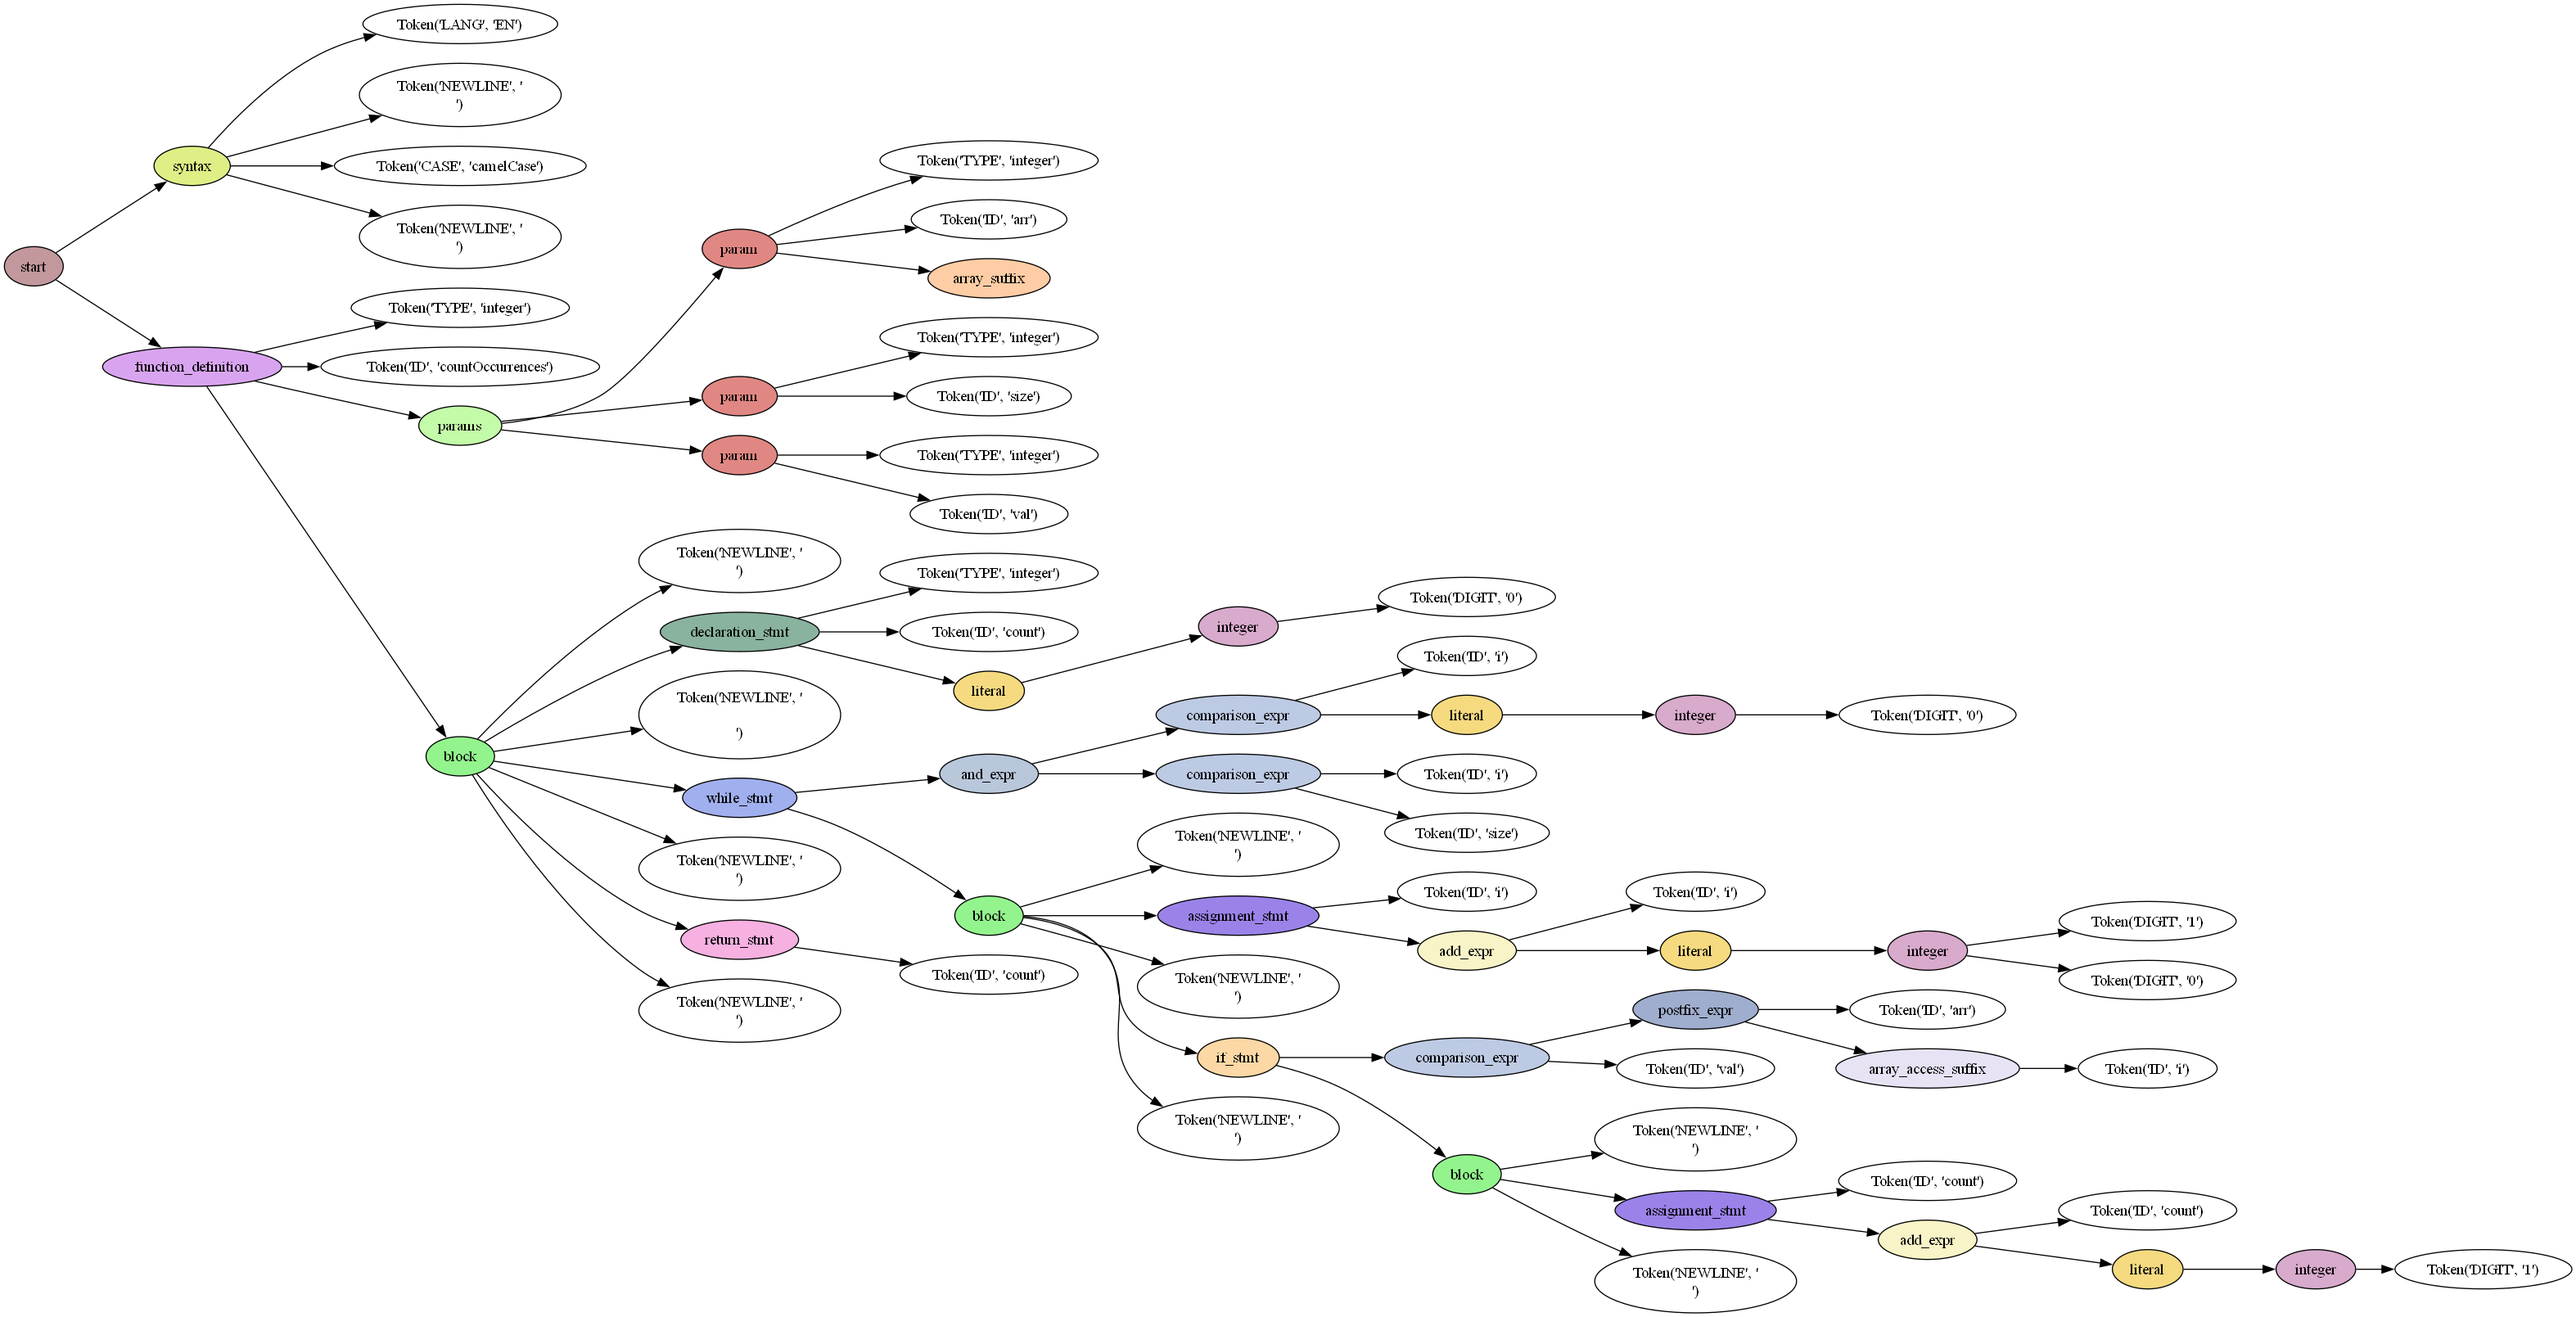
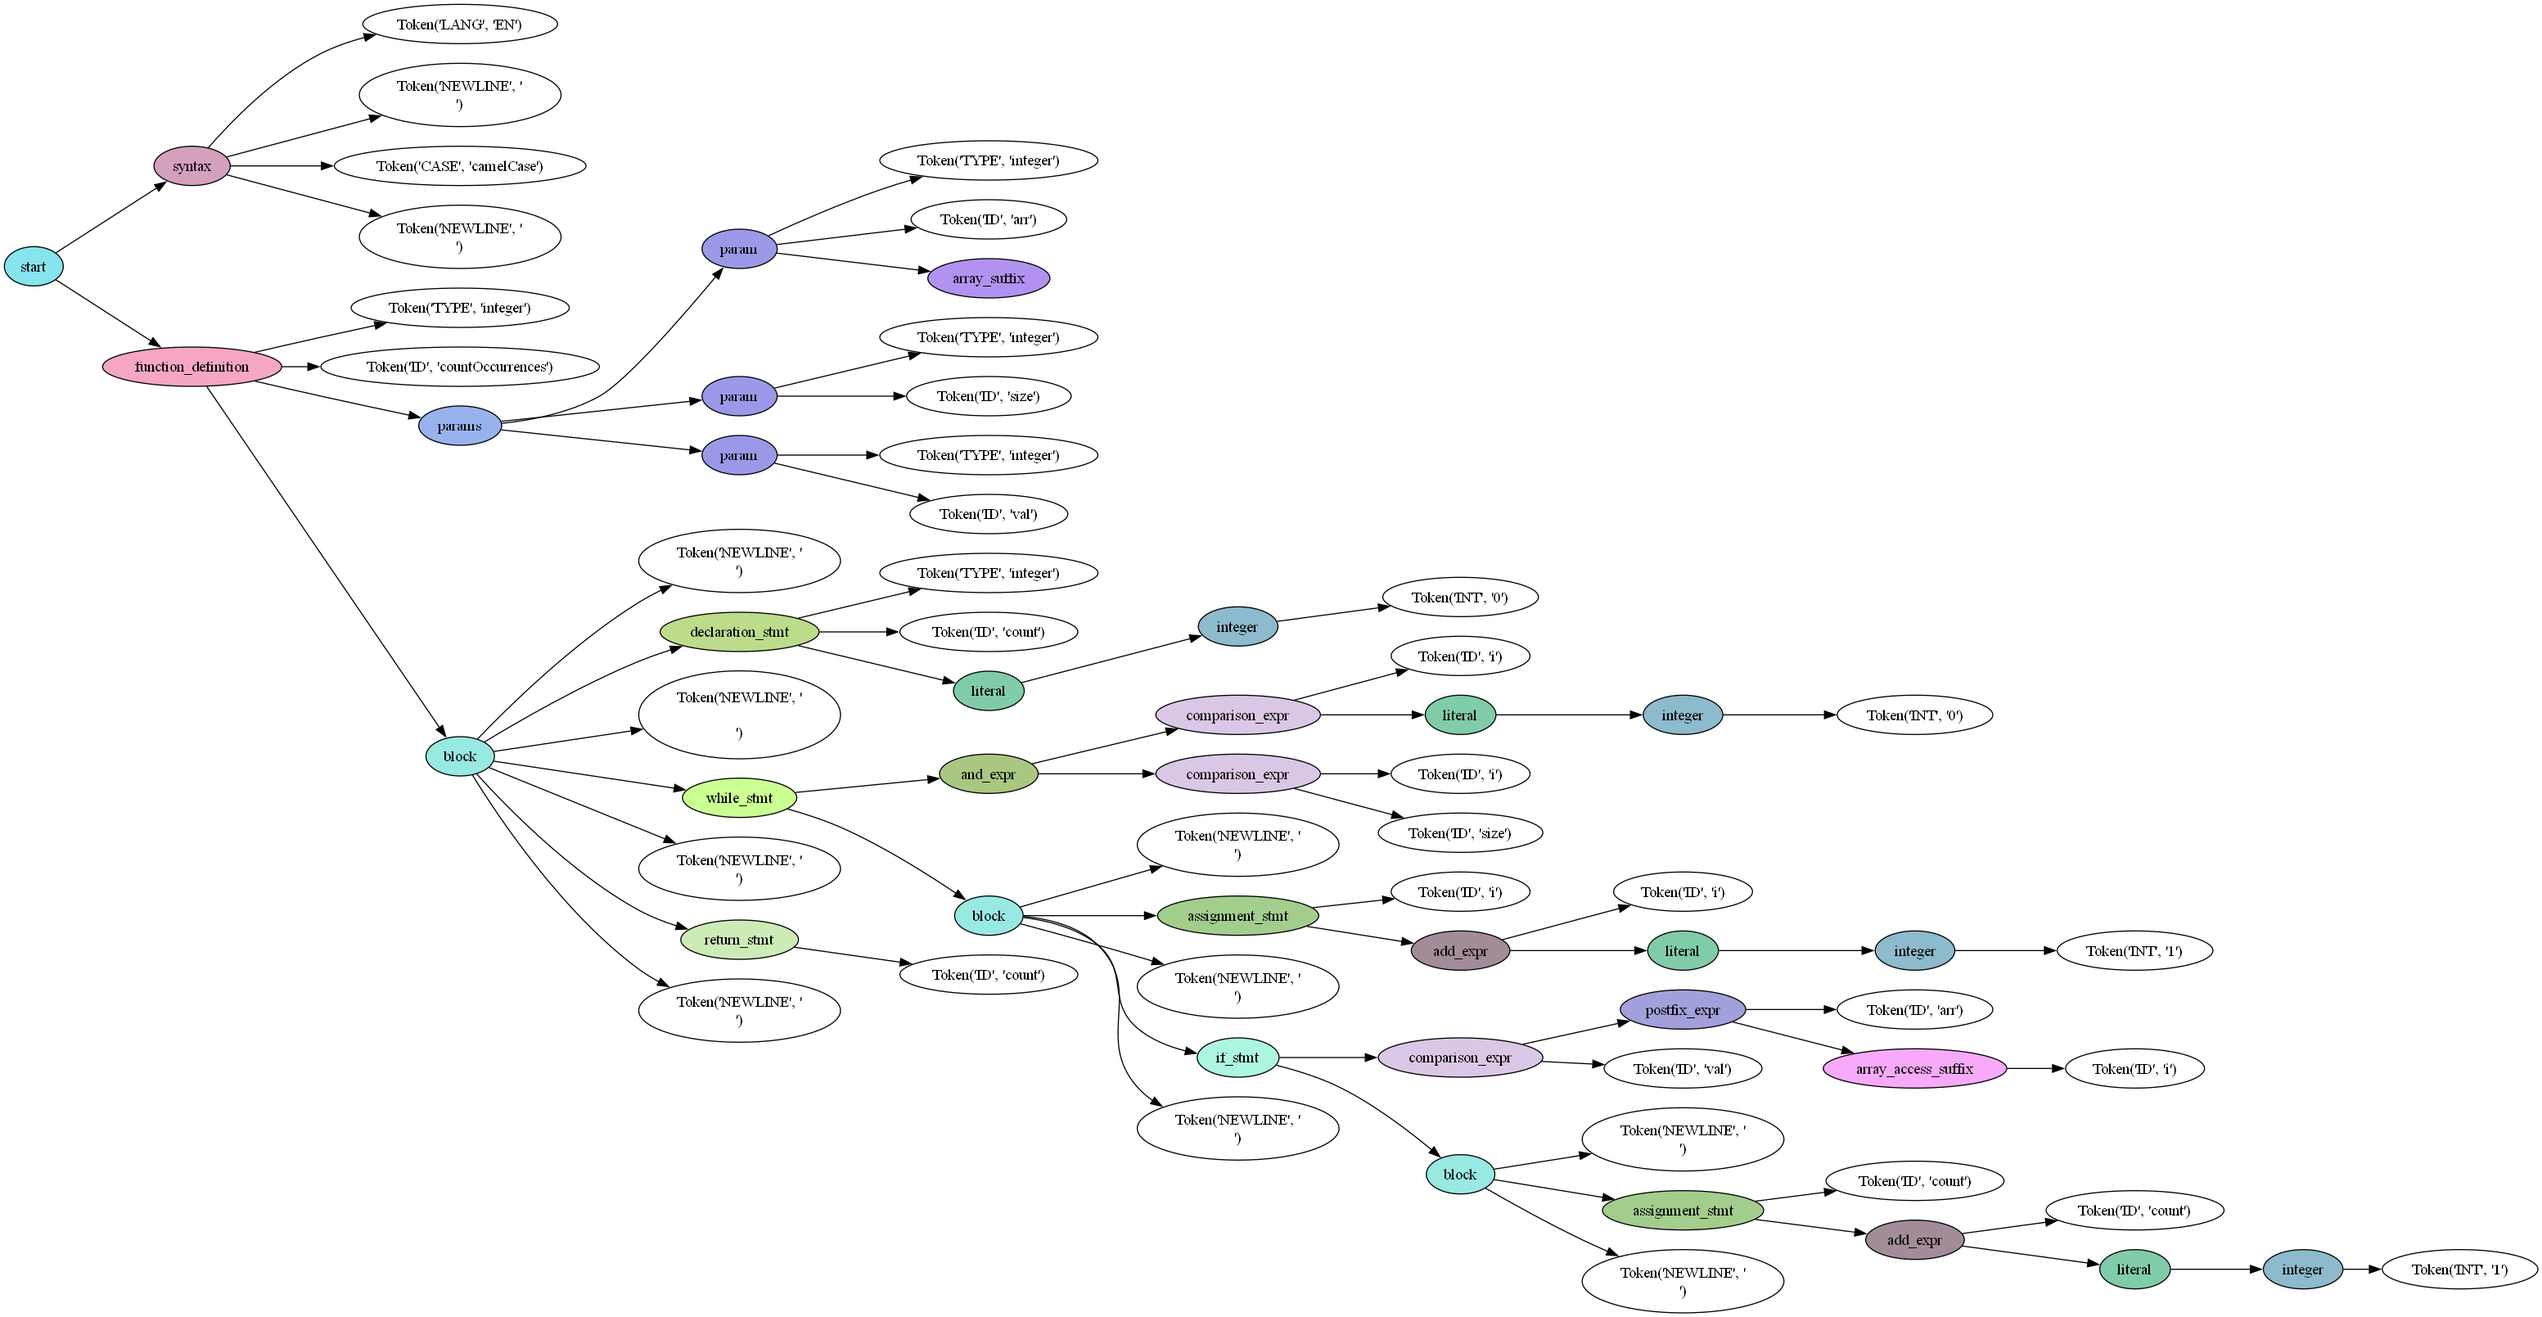
refinement

diff --git a/src/p4/main.py b/src/p4/main.py
@@ -6,7 +6,7 @@ with open("grammar/grammar.lark", "r") as grammar_file:
     grammar = grammar_file.read()
 
 # Lark parser
-parser = Lark(grammar, parser='earley', start='start')
+parser = Lark(grammar, parser='earley', start='start', lexer="dynamic")
 
 # Optional transformer to process the parse tree.
 class MyTransformer(Transformer):
